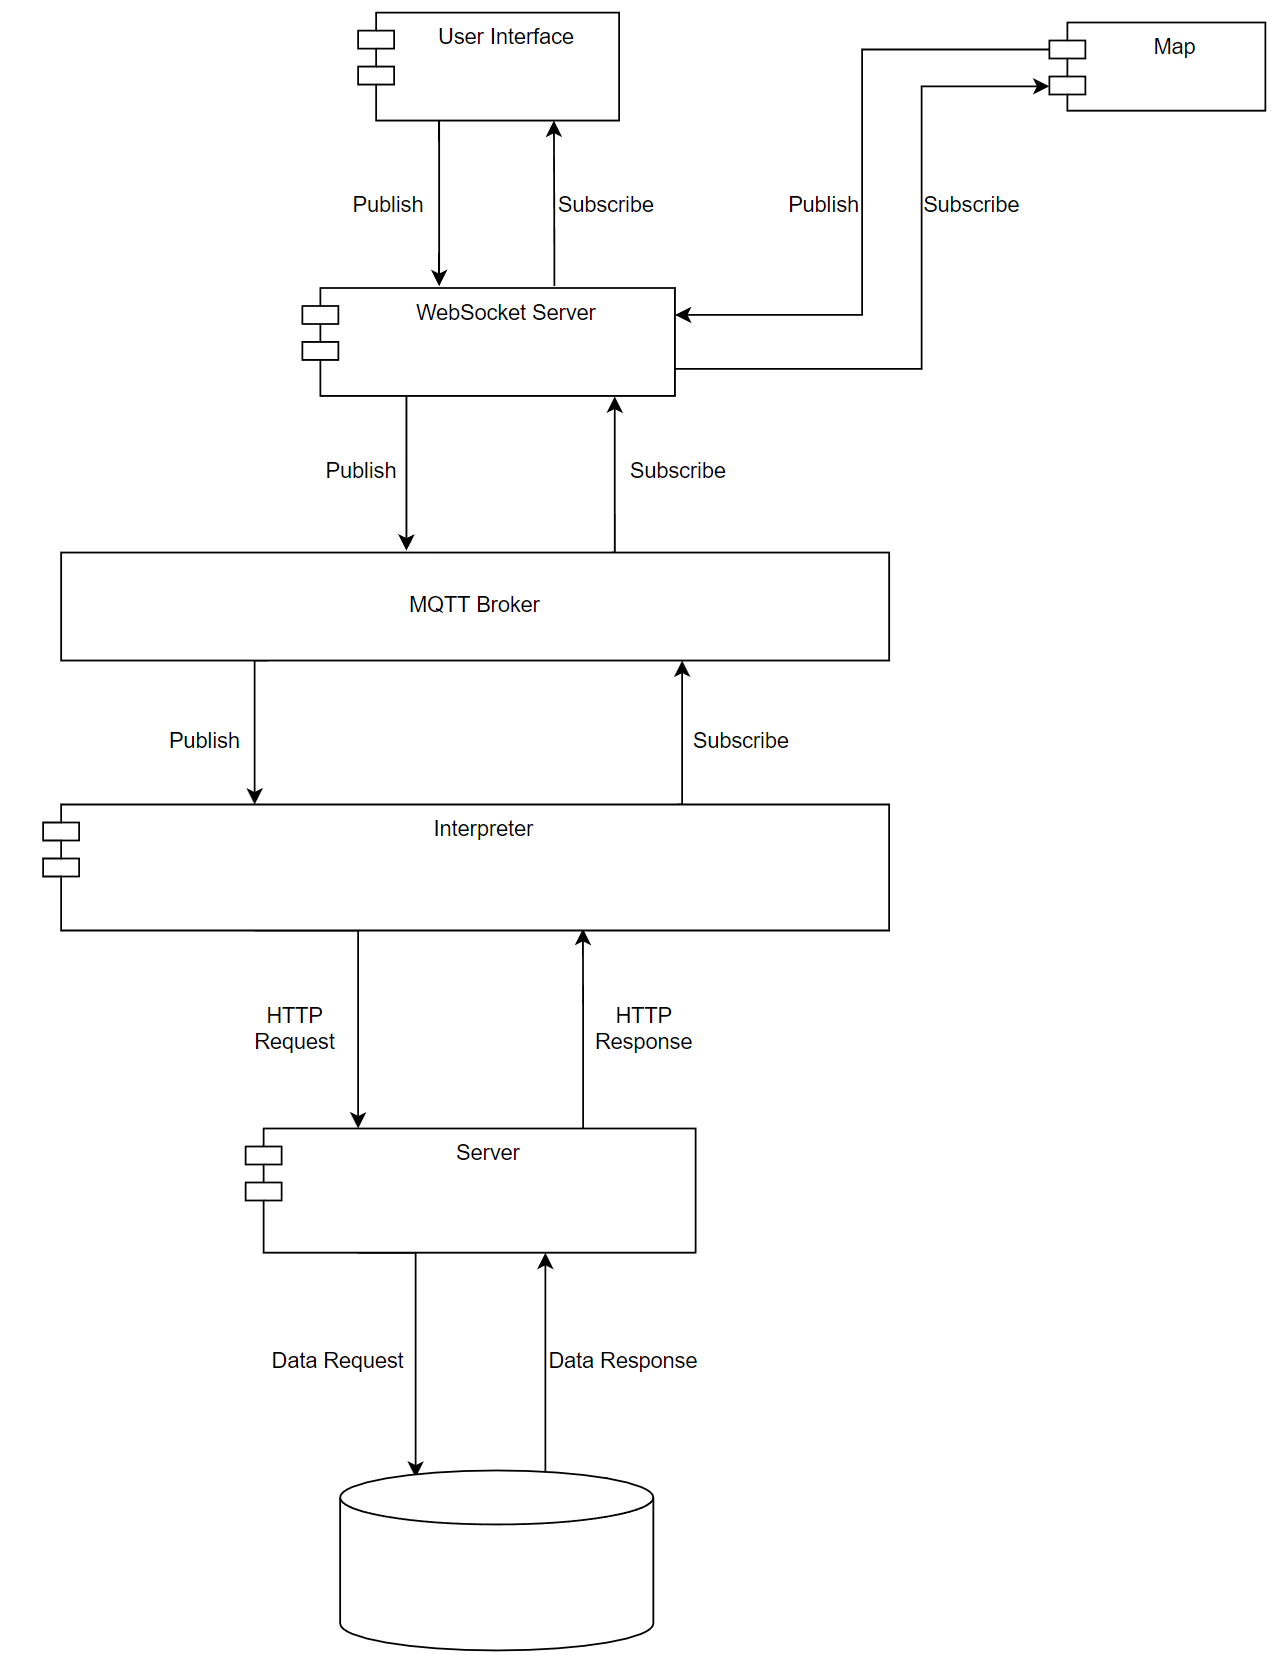
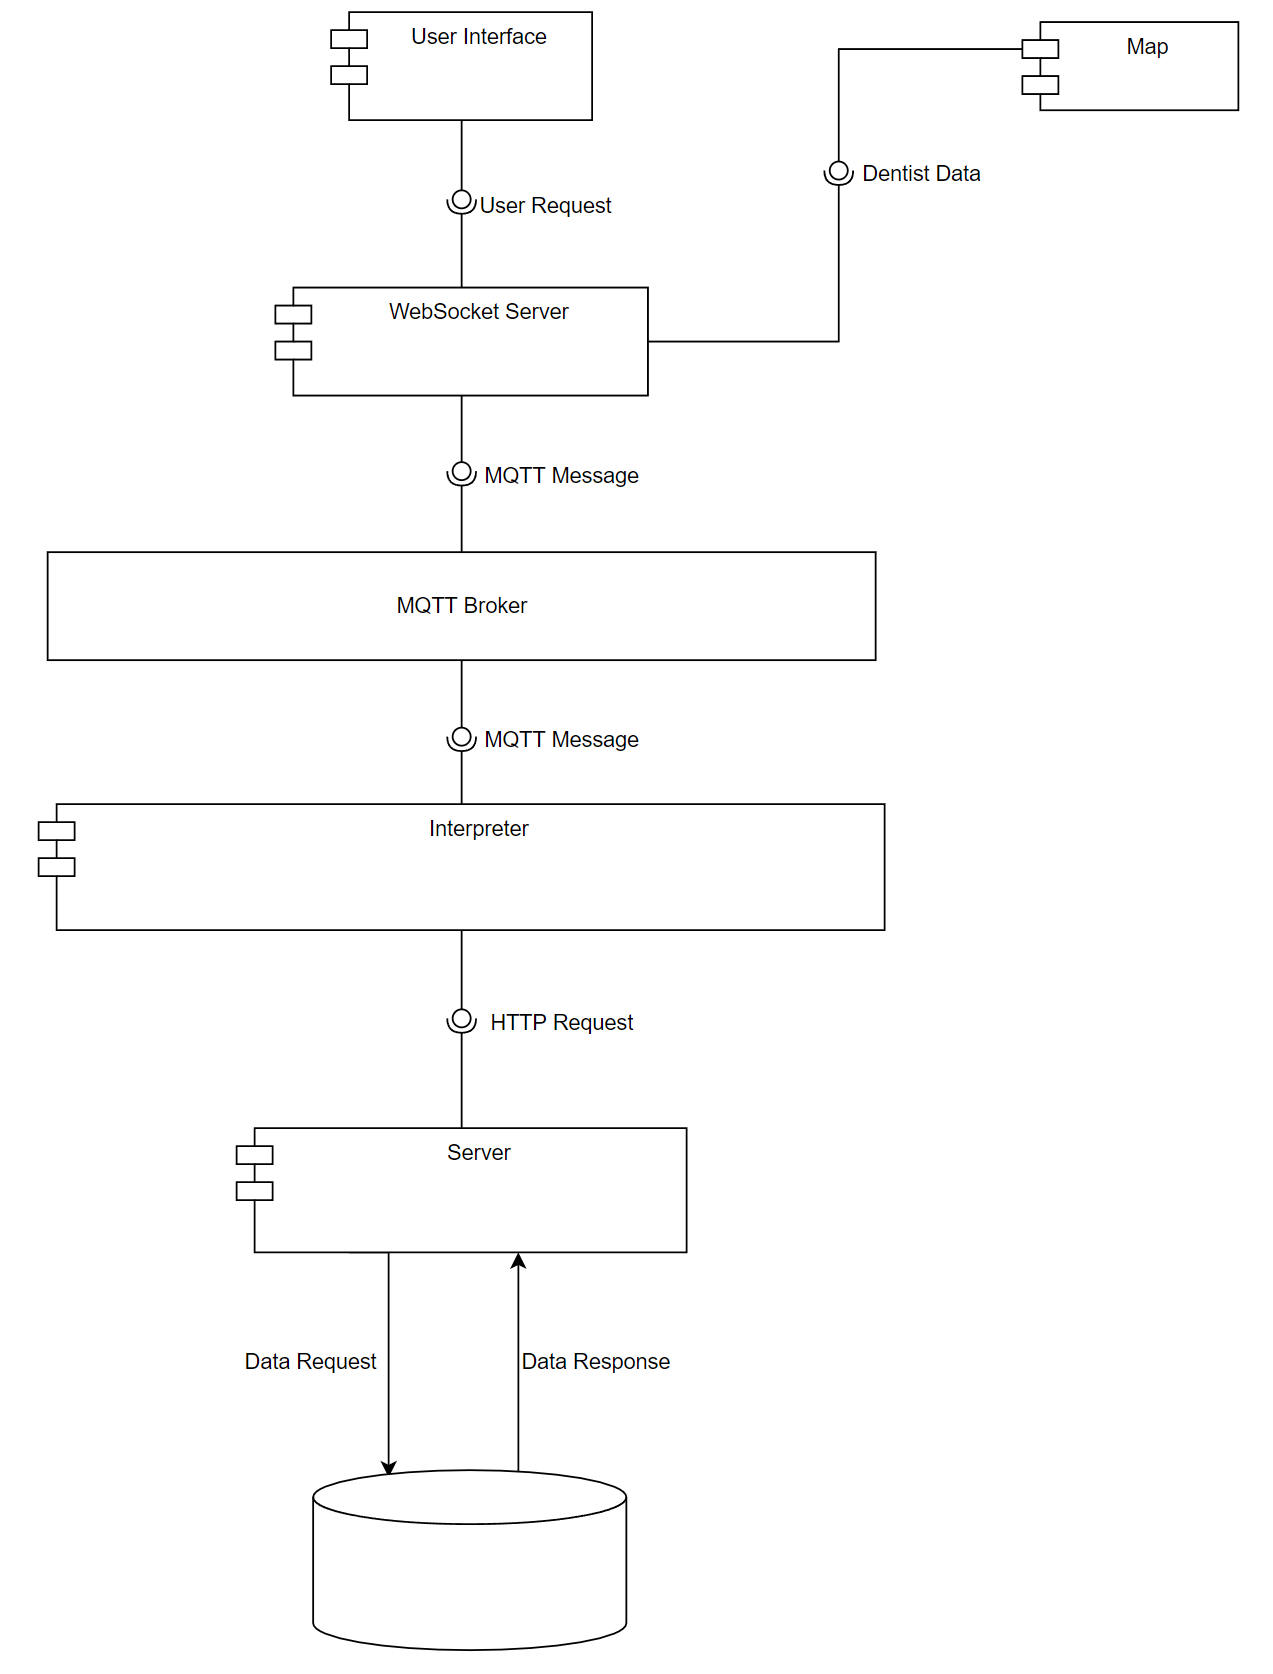
Update UI previews + component diagram

diff --git a/README.md b/README.md
@@ -93,11 +93,14 @@ The system consists of 5 components:
 
 ![Login Sequence Diagram](./images/Login_sequence_diagram.png)
 
-**UI Prototype**
+**UI**
 
-![Home Page Prototype](./images/homepage.png)
-![Appointment Page Prototype](./images/calendar.png)
-![Profile Page Prototype](./images/profile.png)
+![Home Page](./images/homepage.png)
+![Login](./images/login.png)
+![Map](./images/map.png)
+![Appointment Page](./images/calendar.png)
+![Profile Page](./images/profile.png)
+![404](./images/404.png)
 
 ## Program Management Report (PMR)
 During the entirety of the project, the team will follow agile software development and Scrum principles. The deadline for project completion is 2022/01/05. Given the short lifecylce of the project, the Scrum Master will be the same team member unless extreme and unexpected situations occur. - A typical Sprint will run for 2 weeks starting with Sprint Planning meeting with all of the team members. 
